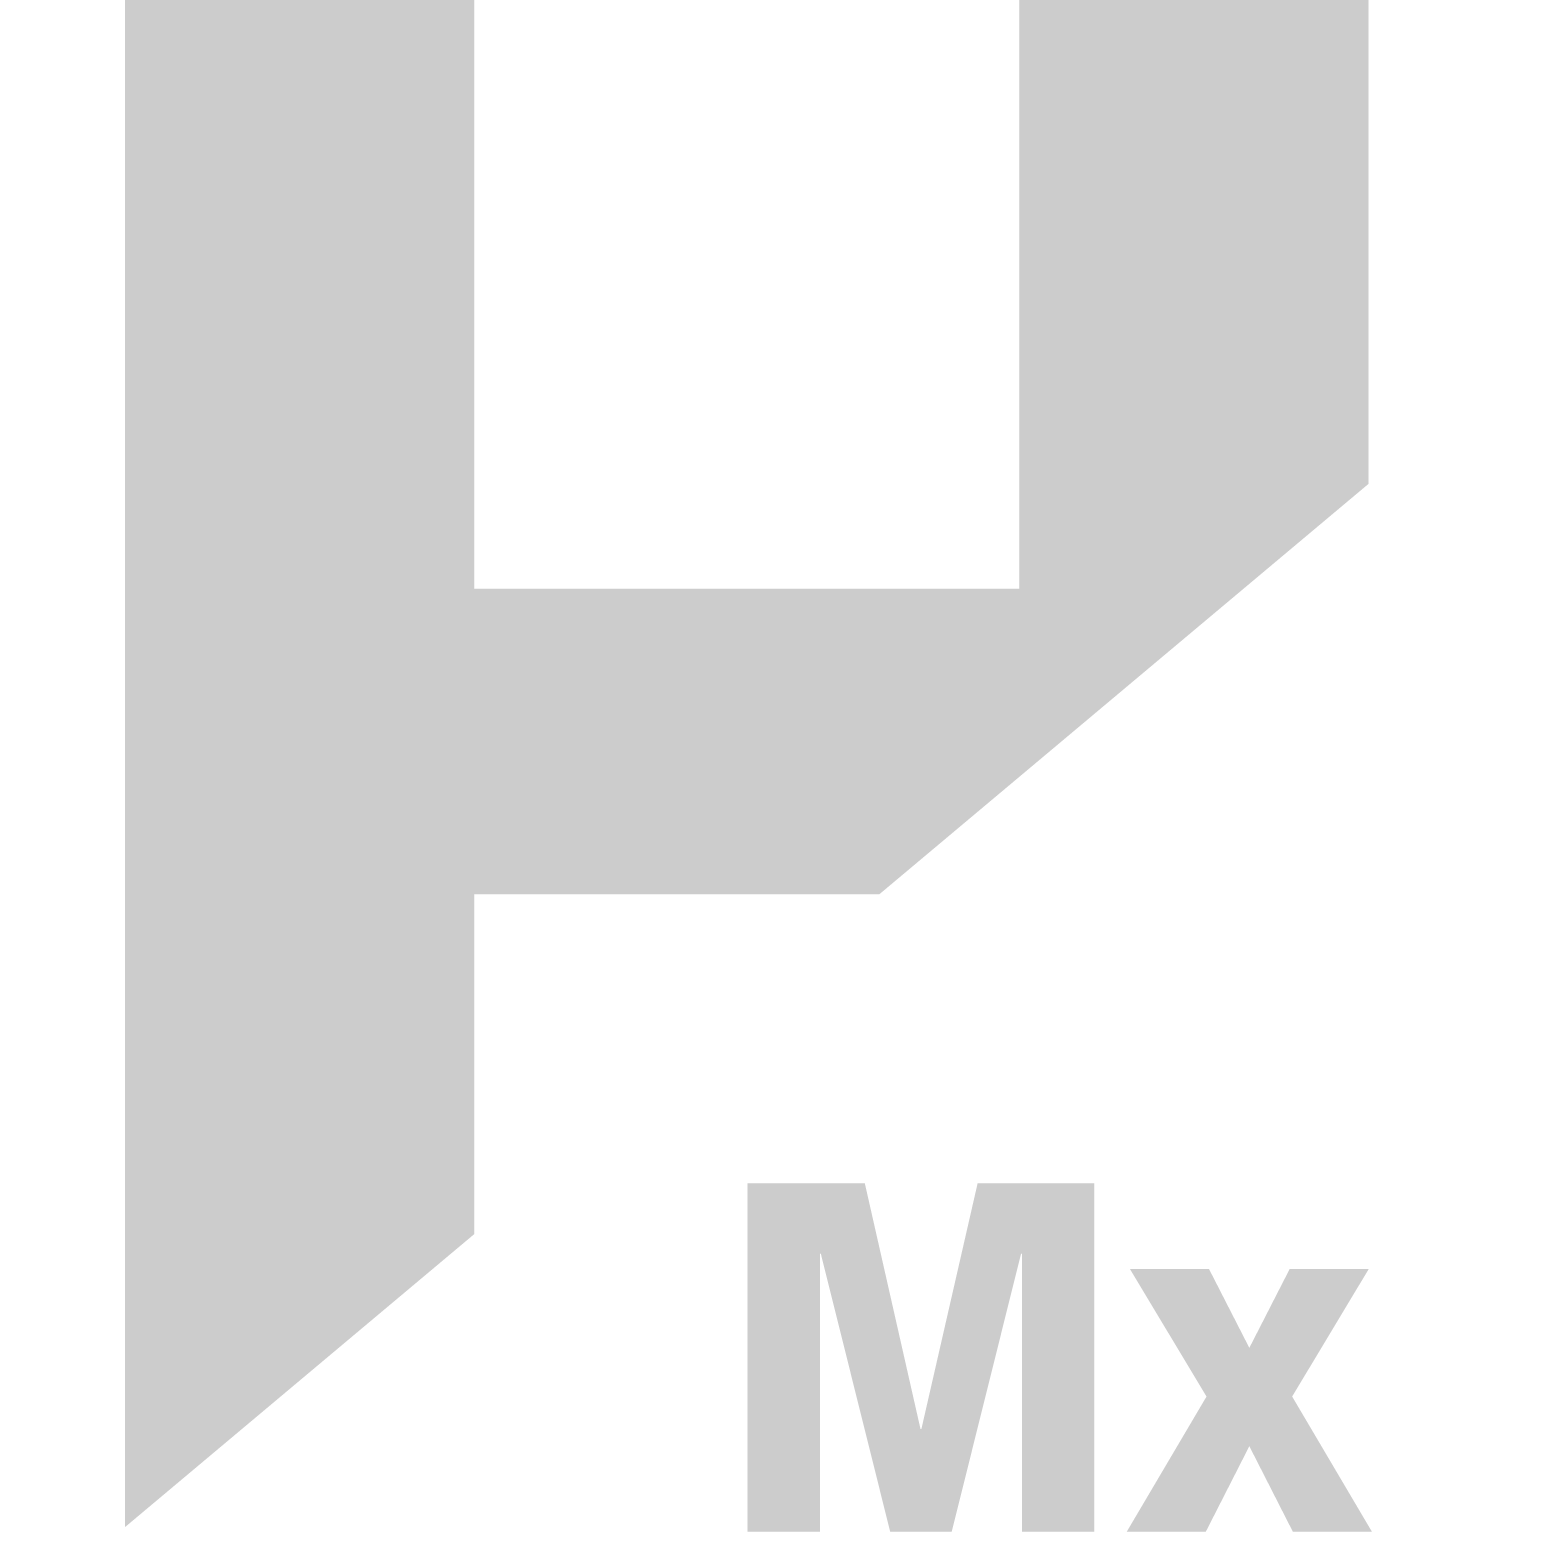
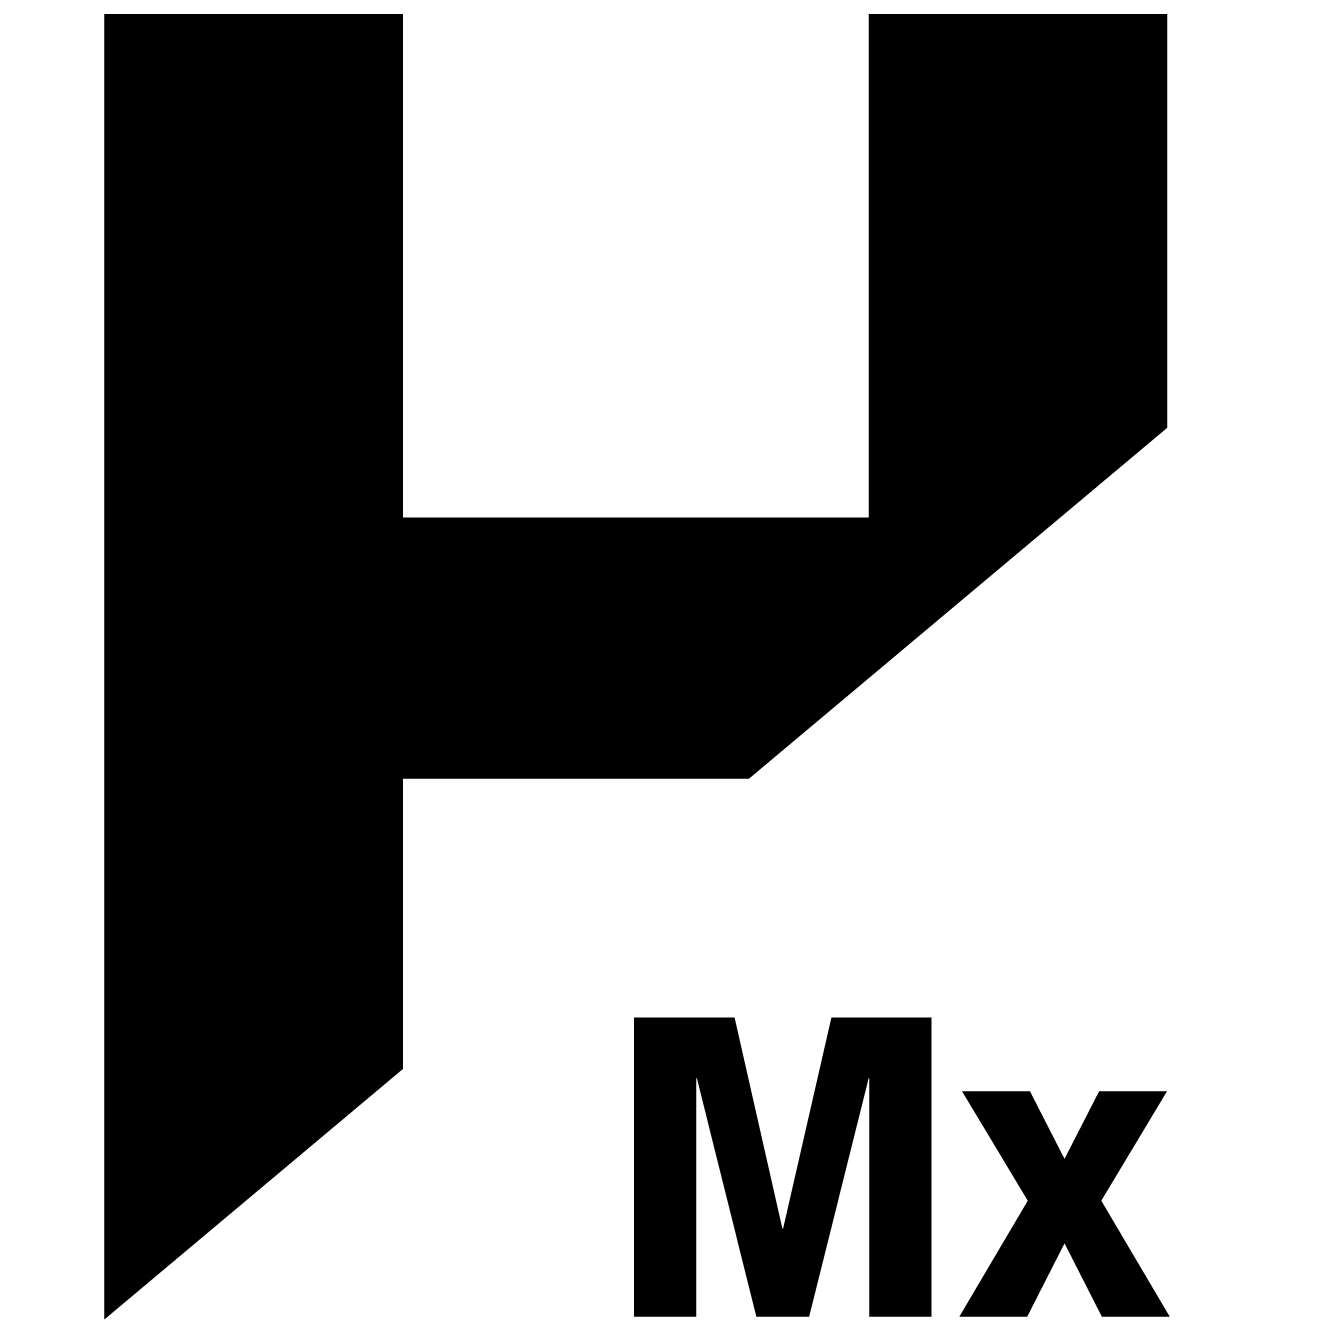
cambios

diff --git a/index2.html b/index2.html
@@ -3,7 +3,7 @@
 
 <head>
       <!-- Theme Made By www.w3schools.com - No Copyright -->
-      <title>Bootstrap Theme Company Page</title>
+      <title>humanist Mx</title>
       <meta charset="utf-8">
       <meta name="viewport" content="width=device-width, initial-scale=1">
       <link rel="stylesheet" href="https://maxcdn.bootstrapcdn.com/bootstrap/3.3.7/css/bootstrap.min.css">
@@ -20,39 +20,43 @@
       <!-- Header -->
 
       <nav class="navbar navbar-default navbar-fixed-top container-fluid">
-            <div class="navbar-header container col-md-6">
-                  <button type="button" class="navbar-toggle" data-toggle="collapse" data-target="#myNavbar">
-                        <span class="icon-bar">
-                        </span>
-                        <span class="icon-bar"></span>
-                  </button>
+            <div class="col-md-12">
+                  <div class="navbar-header col-md-6">
+                        <button type="button" class="navbar-toggle" data-toggle="collapse" data-target="#myNavbar">
+                              <span class="icon-bar">
+                              </span>
+                              <span class="icon-bar"></span>
+                        </button>
 
-                  <a href="#" class="navbar-left">
-                        <img src="/img/logotipo.png">
-                  </a>
+                        <a href="#" class="navbar-left">
+                              <img src="./img/logotipo.png">
+                        </a>
 
-            </div>
-            <div class="collapse navbar-collapse col-md-6 col-md-offset-6" id="myNavbar">
-                  <ul class="nav navbar-nav navbar-right">
-                        <li>
-                              <a href="#categorias">Categorías</a>
-                        </li>
-                        <li>
-                              <a href="#colaboradores">colaboradores</a>
-                        </li>
-                  </ul>
+                  </div>
+                  <div class="collapse navbar-collapse col-md-6" id="myNavbar">
+                        <ul class="nav navbar-nav navbar-right">
+                              <li>
+                                    <a href="#categorias">Categorías</a>
+                              </li>
+                              <li>
+                                    <a href="#colaboradores">Colaboradores</a>
+                              </li>
+                        </ul>
+                  </div>
             </div>
       </nav>
 
       <!-- Heder -->
 
       <!-- jumbotron -->
-      <div class="jumbotron container-fluid row">
+      <div class="jumbotron container-fluid">
             <div class="col-md-12">
-                  <div class="logo col-md-6">
-                        <a href="#" class="thumbnail" id="icono">
-                              <img src="img/Icono_Hmx.png" class="img-responsive" alt="Humanista Mx" id="icono">
-                        </a>
+                  <div class="logo col-md-6 ">
+                        <div class="logo col-md-6 ">
+                              <a href="#" class="thumbnail logo_inicio">
+                                    <img src="img/Icono_Hmx.png" alt="Humanista Mx" id="icono">
+                              </a>
+                        </div>
                   </div>
                   <div id="acerca_de" class="col-md-6 ">
                         <h4>Lorem ipsum dolor sit amet, consectetur adipiscing elit, sed do eiusmod tempor incididunt ut labore
@@ -72,10 +76,26 @@
       </div>
       <!-- jumbotron -->
 
-      <div class="container-fluid" id="diagonal">
+      <div class="container clearfix">
+            <a class="col colRight" href="http://www.trainingdragon.co.uk" target="_blank">
+                  <div class="colInner"></div>
+                  <!--/colInner-->
+            </a>
+            <!--/colRight-->
 
+            <a class="col colCentre" href="http://www.trainingdragon.co.uk" target="_blank">
+                  <div class="colInner"></div>
+                  <!--/colInner-->
+            </a>
+            <!--/colCentre-->
 
+            <a class="col colLeft" href="http://www.trainingdragon.co.uk" target="_blank">
+                  <div class="colInner"></div>
+                  <!--/colInner-->
+            </a>
+            <!--/colLeft-->
       </div>
+      <!--/container-->
 
       <!-- Container (About Section) -->
       <div id="about" class="container-fluid">

diff --git a/css/style.css b/css/style.css
@@ -6,7 +6,12 @@
 body {
   font: 400 15px Lato, sans-serif;
   line-height: 1.8;
-  color: #818181;
+  color: #000000;
+}
+
+.logo_inicio {
+  height: auto;
+  width: 100%;
 }
 .bg {
   display: block;
@@ -58,7 +63,7 @@ h4 {
 }
 
 .container-fluid {
-  padding: 0px 5%;
+  padding: 0px 0px;
 }
 
 .bg-grey {
